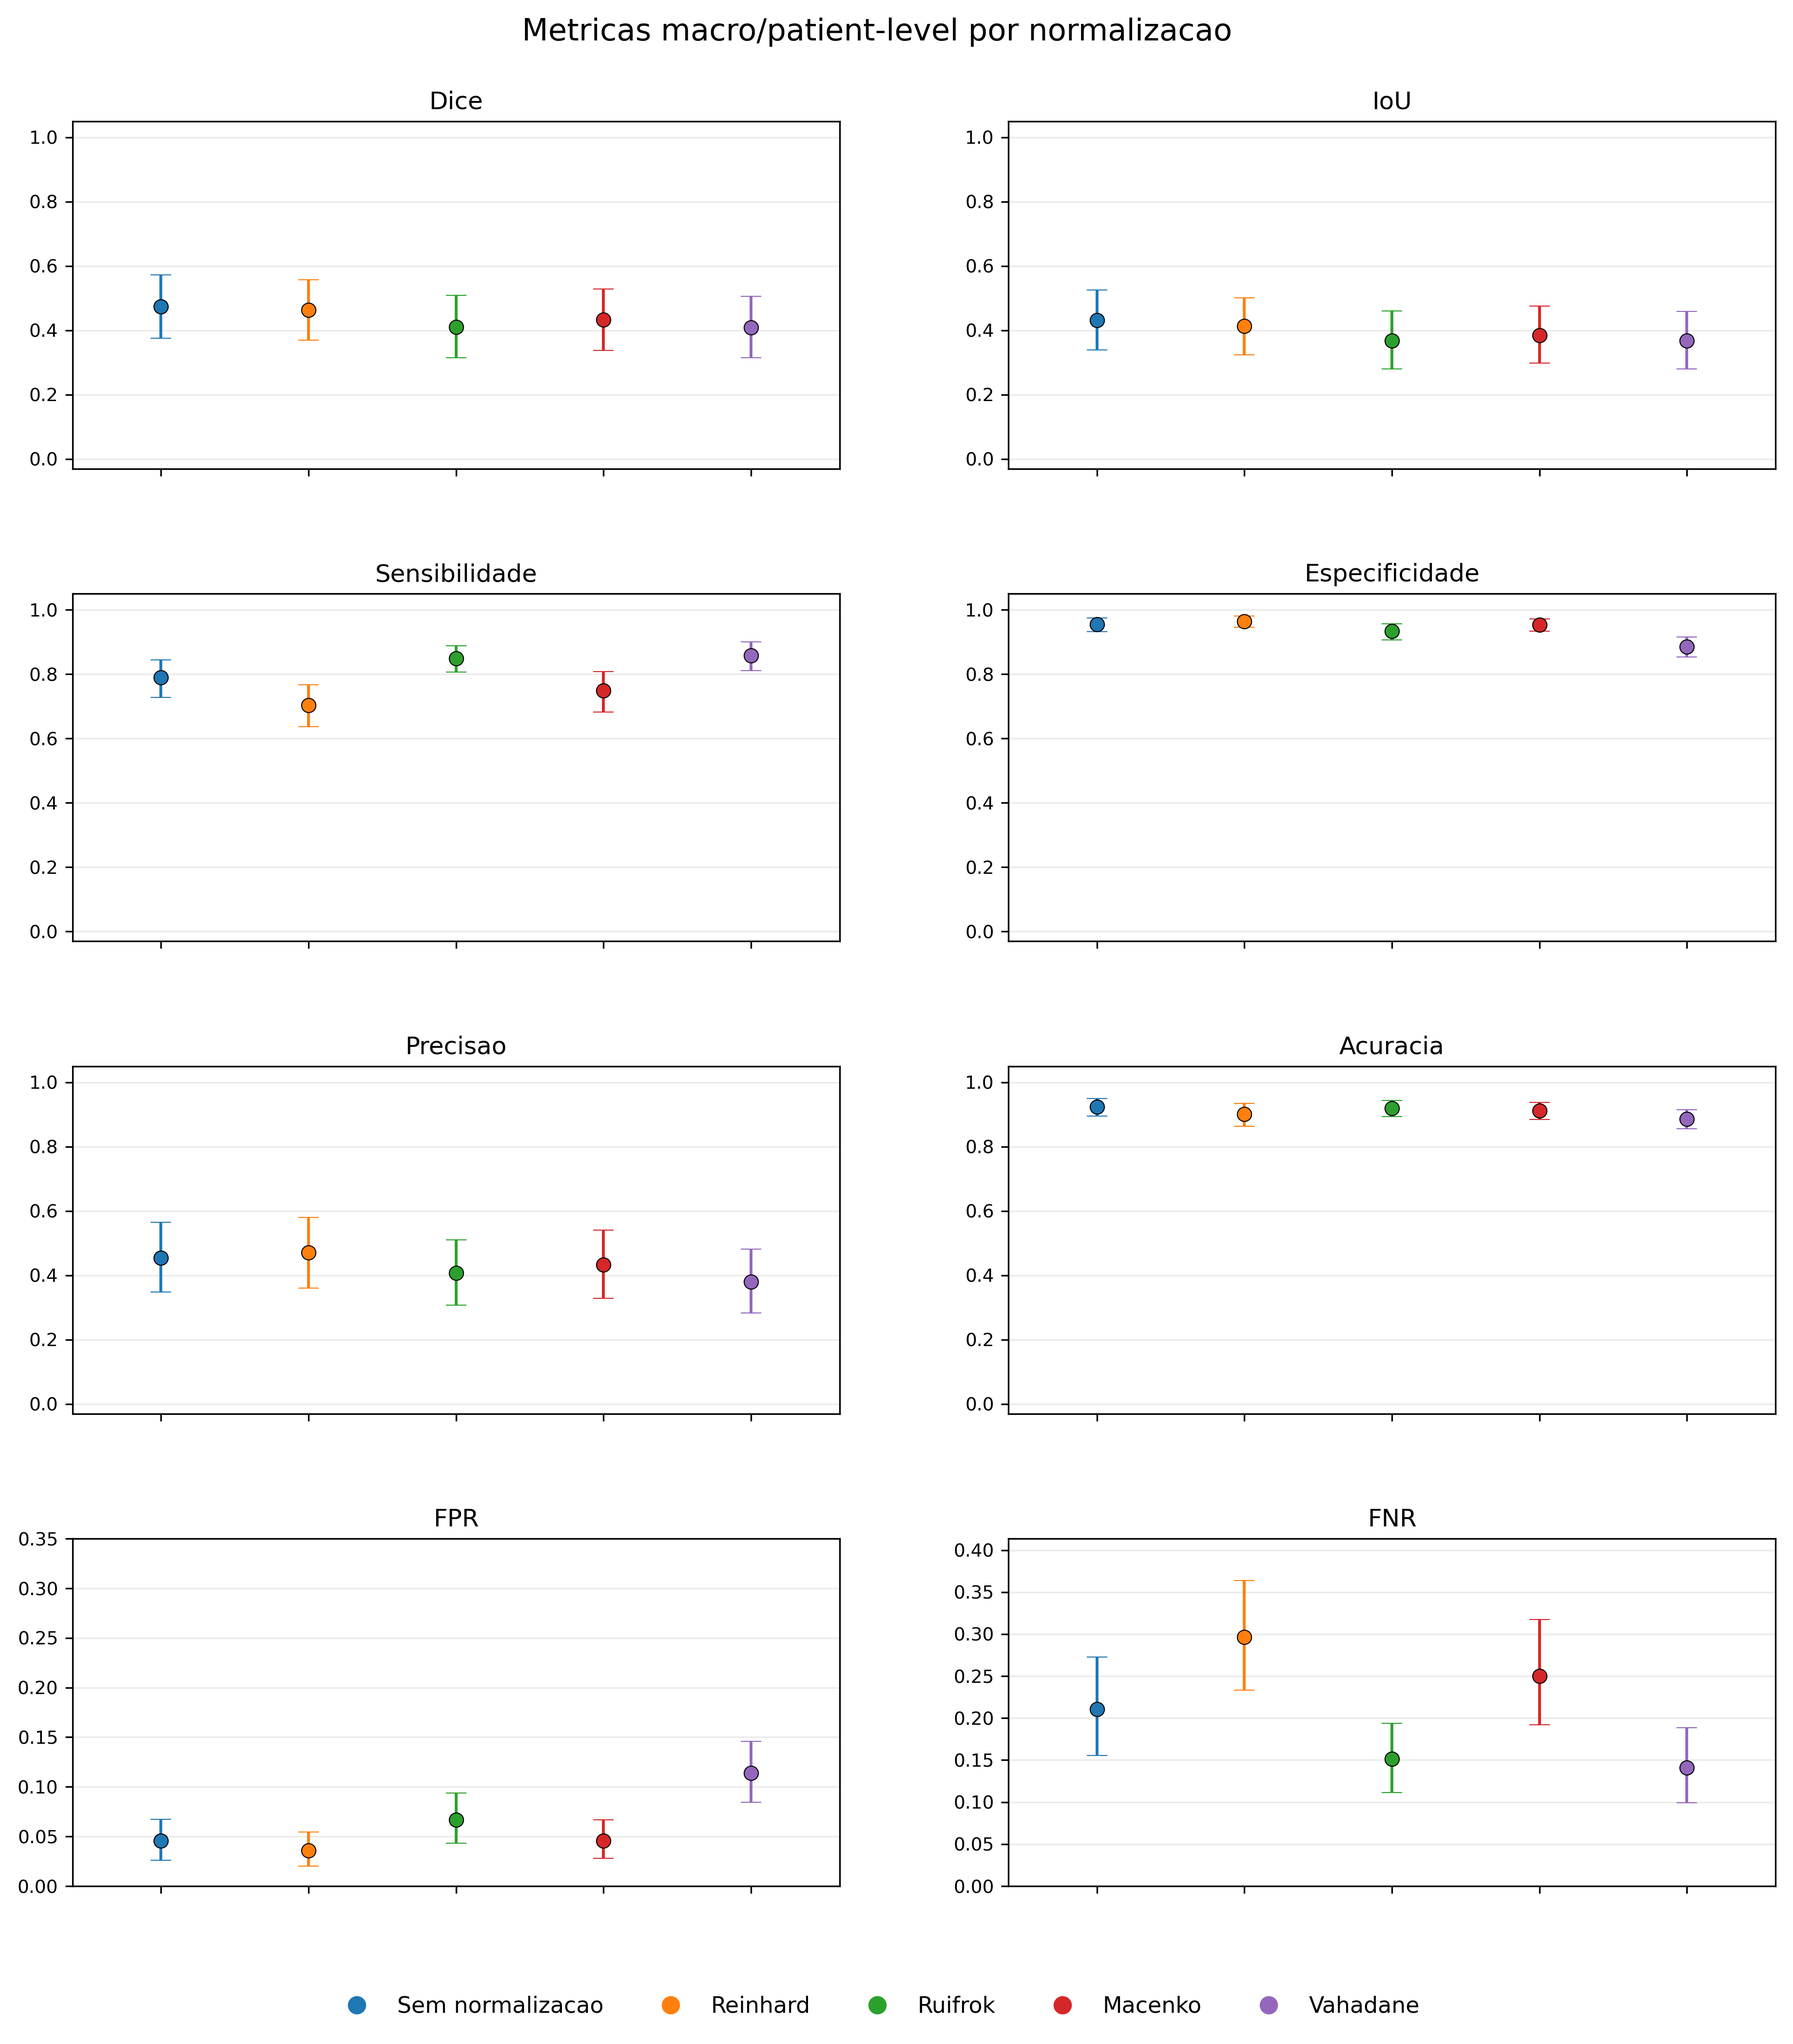
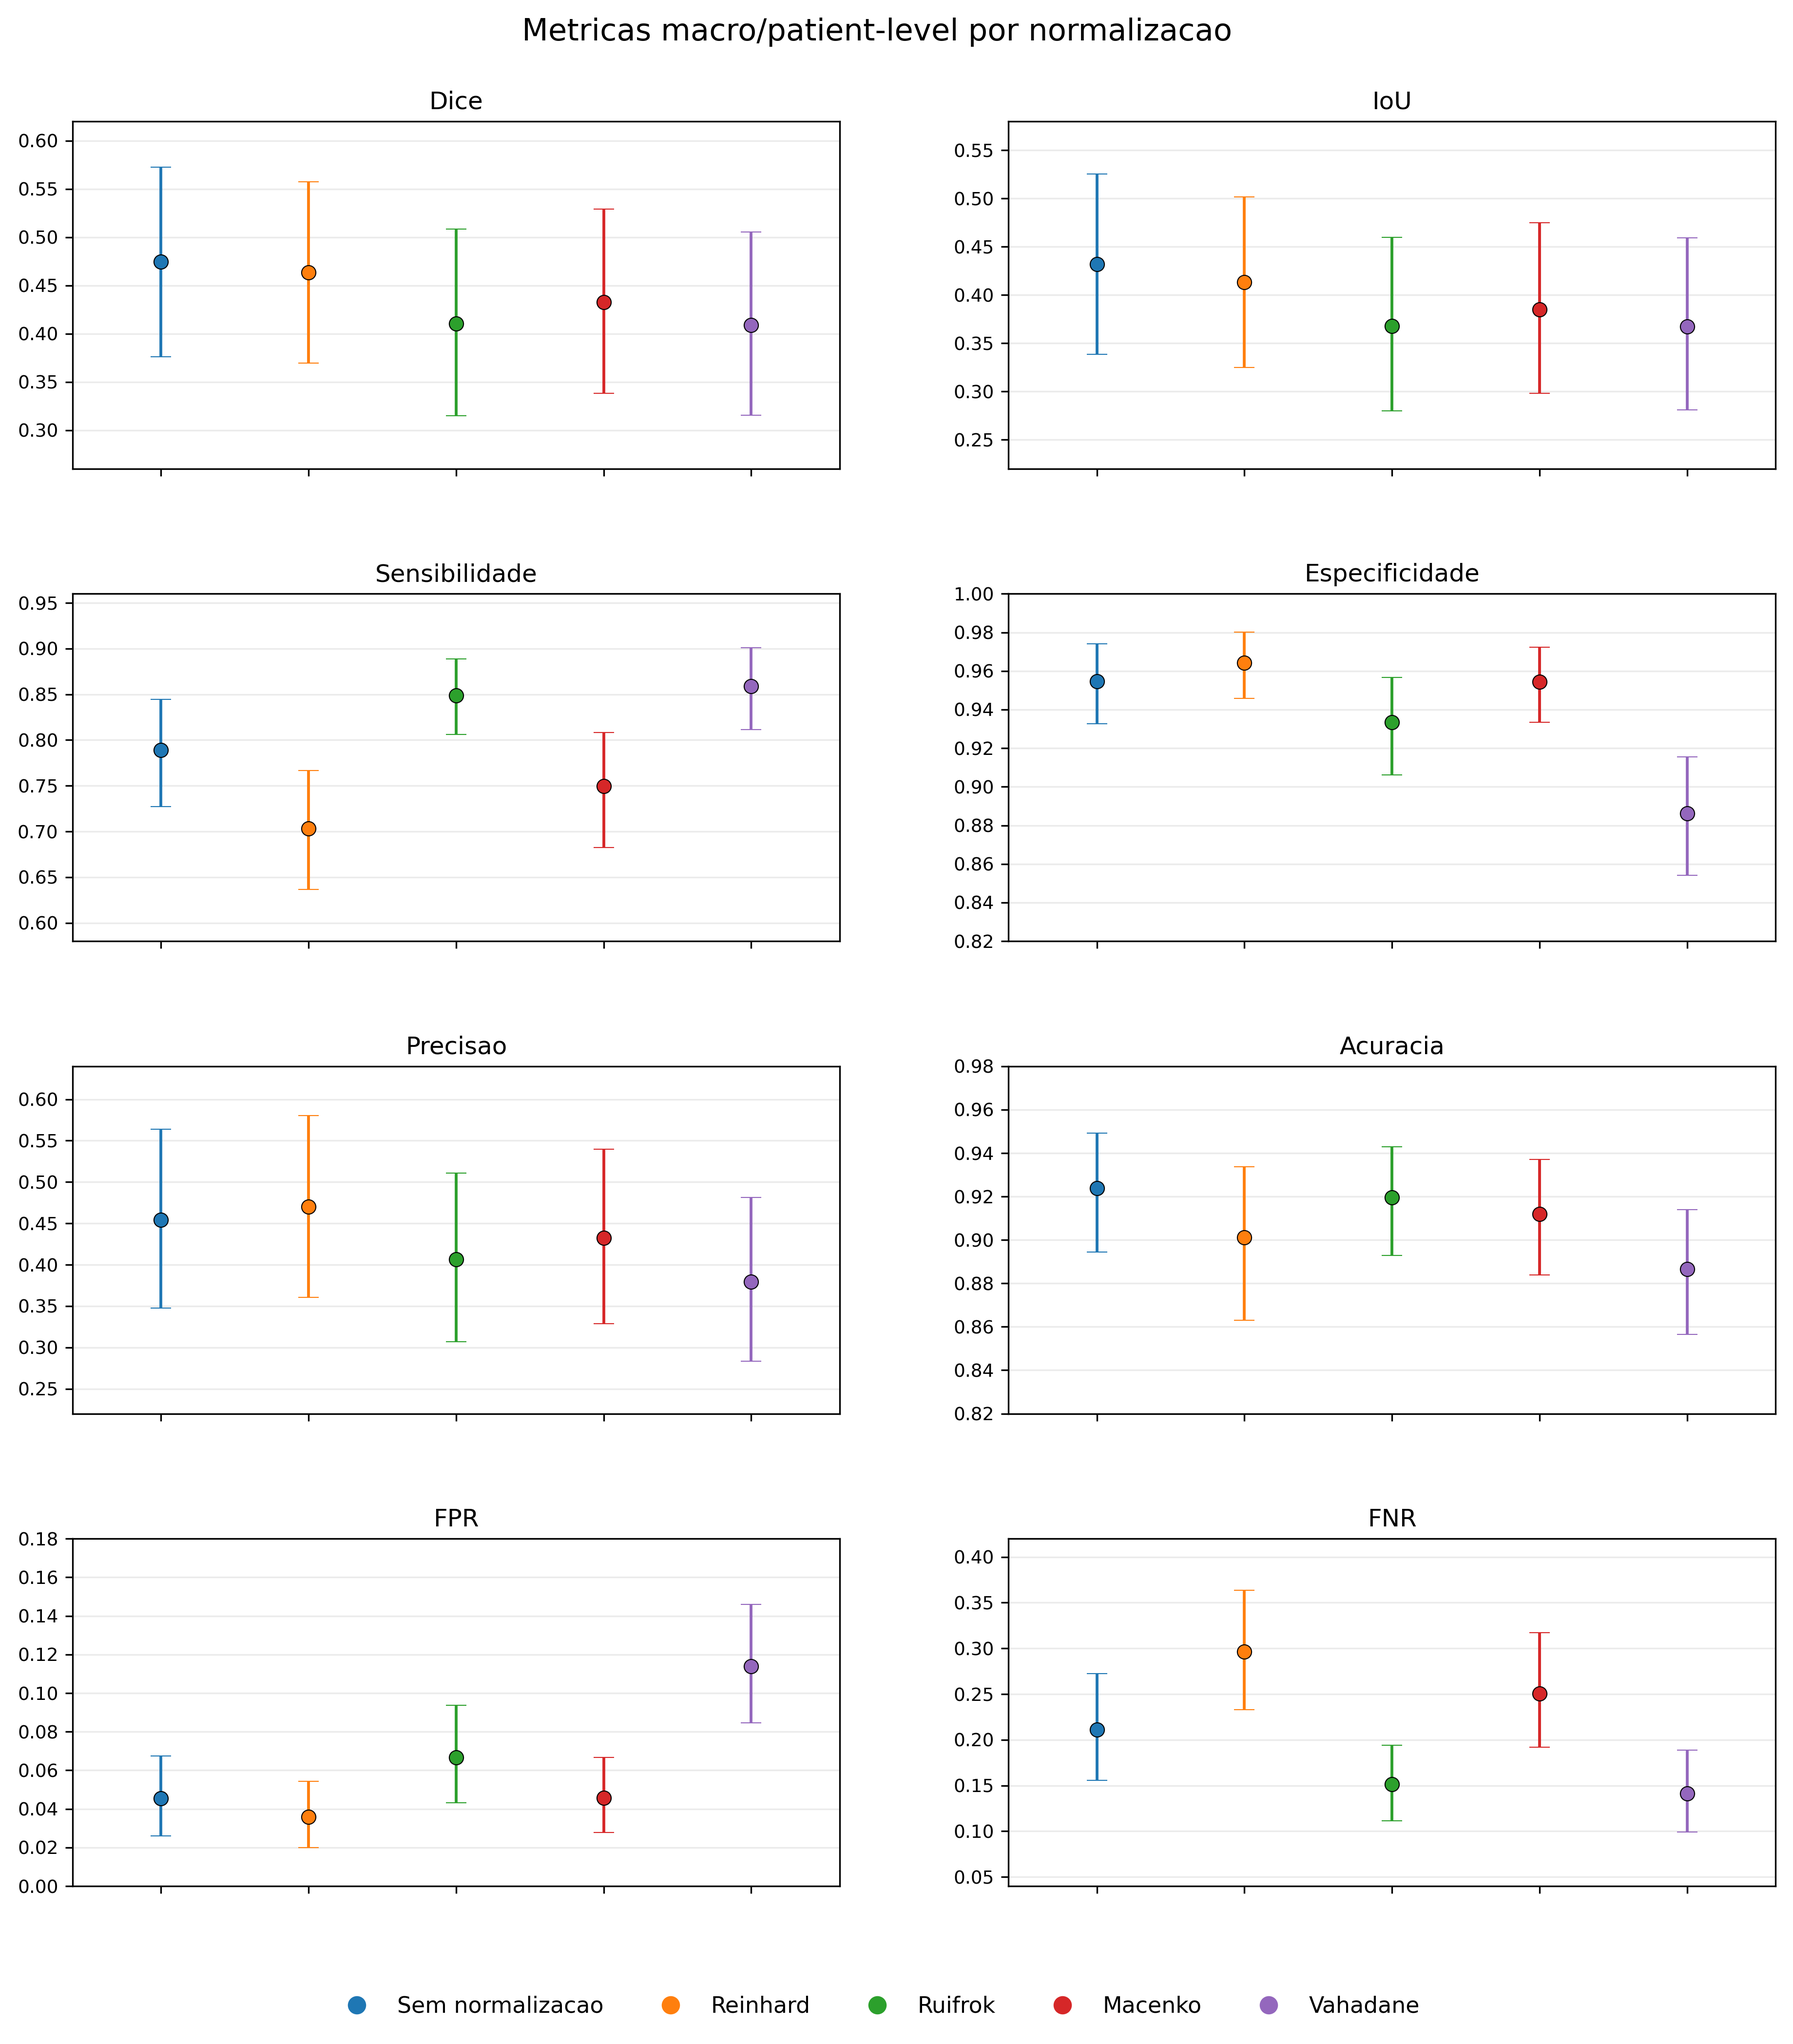
feat: Update figure captions and add adjustments for clarity in DIAGSET metrics

diff --git a/masters_thesis/New_Thesis/resultados.tex b/masters_thesis/New_Thesis/resultados.tex
@@ -534,14 +534,14 @@ A leitura geral dos resultados indica que o desempenho do método depende do cri
 \begin{figure}[!htb]
 \centering
 \includegraphics[width=0.98\textwidth,height=0.86\textheight,keepaspectratio]{figuras/results_diagset_micro_metrics.png}
-\caption{Métricas micro no conjunto de teste de DIAGSET. Cada painel apresenta uma métrica calculada a partir da agregação global dos pixels; os pontos indicam as estimativas por estratégia de normalização e as barras verticais representam IC95\%.}
+\caption{Métricas micro no conjunto de teste de DIAGSET. Cada painel apresenta uma métrica calculada a partir da agregação global dos pixels; os pontos indicam as estimativas por estratégia de normalização e as barras verticais representam IC95\%. Os eixos verticais são ajustados individualmente ao intervalo dos IC95\% exibidos, mantendo as métricas limitadas entre 0 e 1.}
 \label{fig:results_diagset-micro-metrics}
 \end{figure}
 
 \begin{figure}[!htb]
 \centering
 \includegraphics[width=0.98\textwidth,height=0.86\textheight,keepaspectratio]{figuras/results_diagset_macro_metrics.png}
-\caption{Métricas macro no conjunto de teste de DIAGSET. Cada painel apresenta uma métrica resumida inicialmente por paciente e posteriormente agregada entre pacientes; as barras verticais representam IC95\%.}
+\caption{Métricas macro no conjunto de teste de DIAGSET. Cada painel apresenta uma métrica resumida inicialmente por paciente e posteriormente agregada entre pacientes; as barras verticais representam IC95\%. Os eixos verticais são ajustados individualmente ao intervalo dos IC95\% exibidos, mantendo as métricas limitadas entre 0 e 1.}
 \label{fig:results_diagset-macro-metrics}
 \end{figure}
 
@@ -560,7 +560,7 @@ A leitura geral dos resultados indica que o desempenho do método depende do cri
 \caption{Pacientes negativos sem predição positiva}
 \label{fig:results_diagset-rule6-neg-clean}
 \end{subfigure}
-\caption{Avaliação separada de pacientes com e sem lesão anotada no conjunto de teste de DIAGSET. O painel esquerdo apresenta o Dice calculado apenas nos pacientes positivos; o painel direito mostra a proporção de pacientes negativos nos quais o método não produziu predições positivas. As barras verticais indicam IC95\%.}
+\caption{Avaliação separada de pacientes com e sem lesão anotada no conjunto de teste de DIAGSET. O painel esquerdo apresenta o Dice calculado apenas nos pacientes positivos; o painel direito mostra a proporção de pacientes negativos nos quais o método não produziu predições positivas. As barras verticais indicam IC95\%. Os eixos verticais são ajustados individualmente para destacar a comparação entre normalizações dentro de cada métrica.}
 \label{fig:results_diagset-rule6-metrics}
 \end{figure}
 
